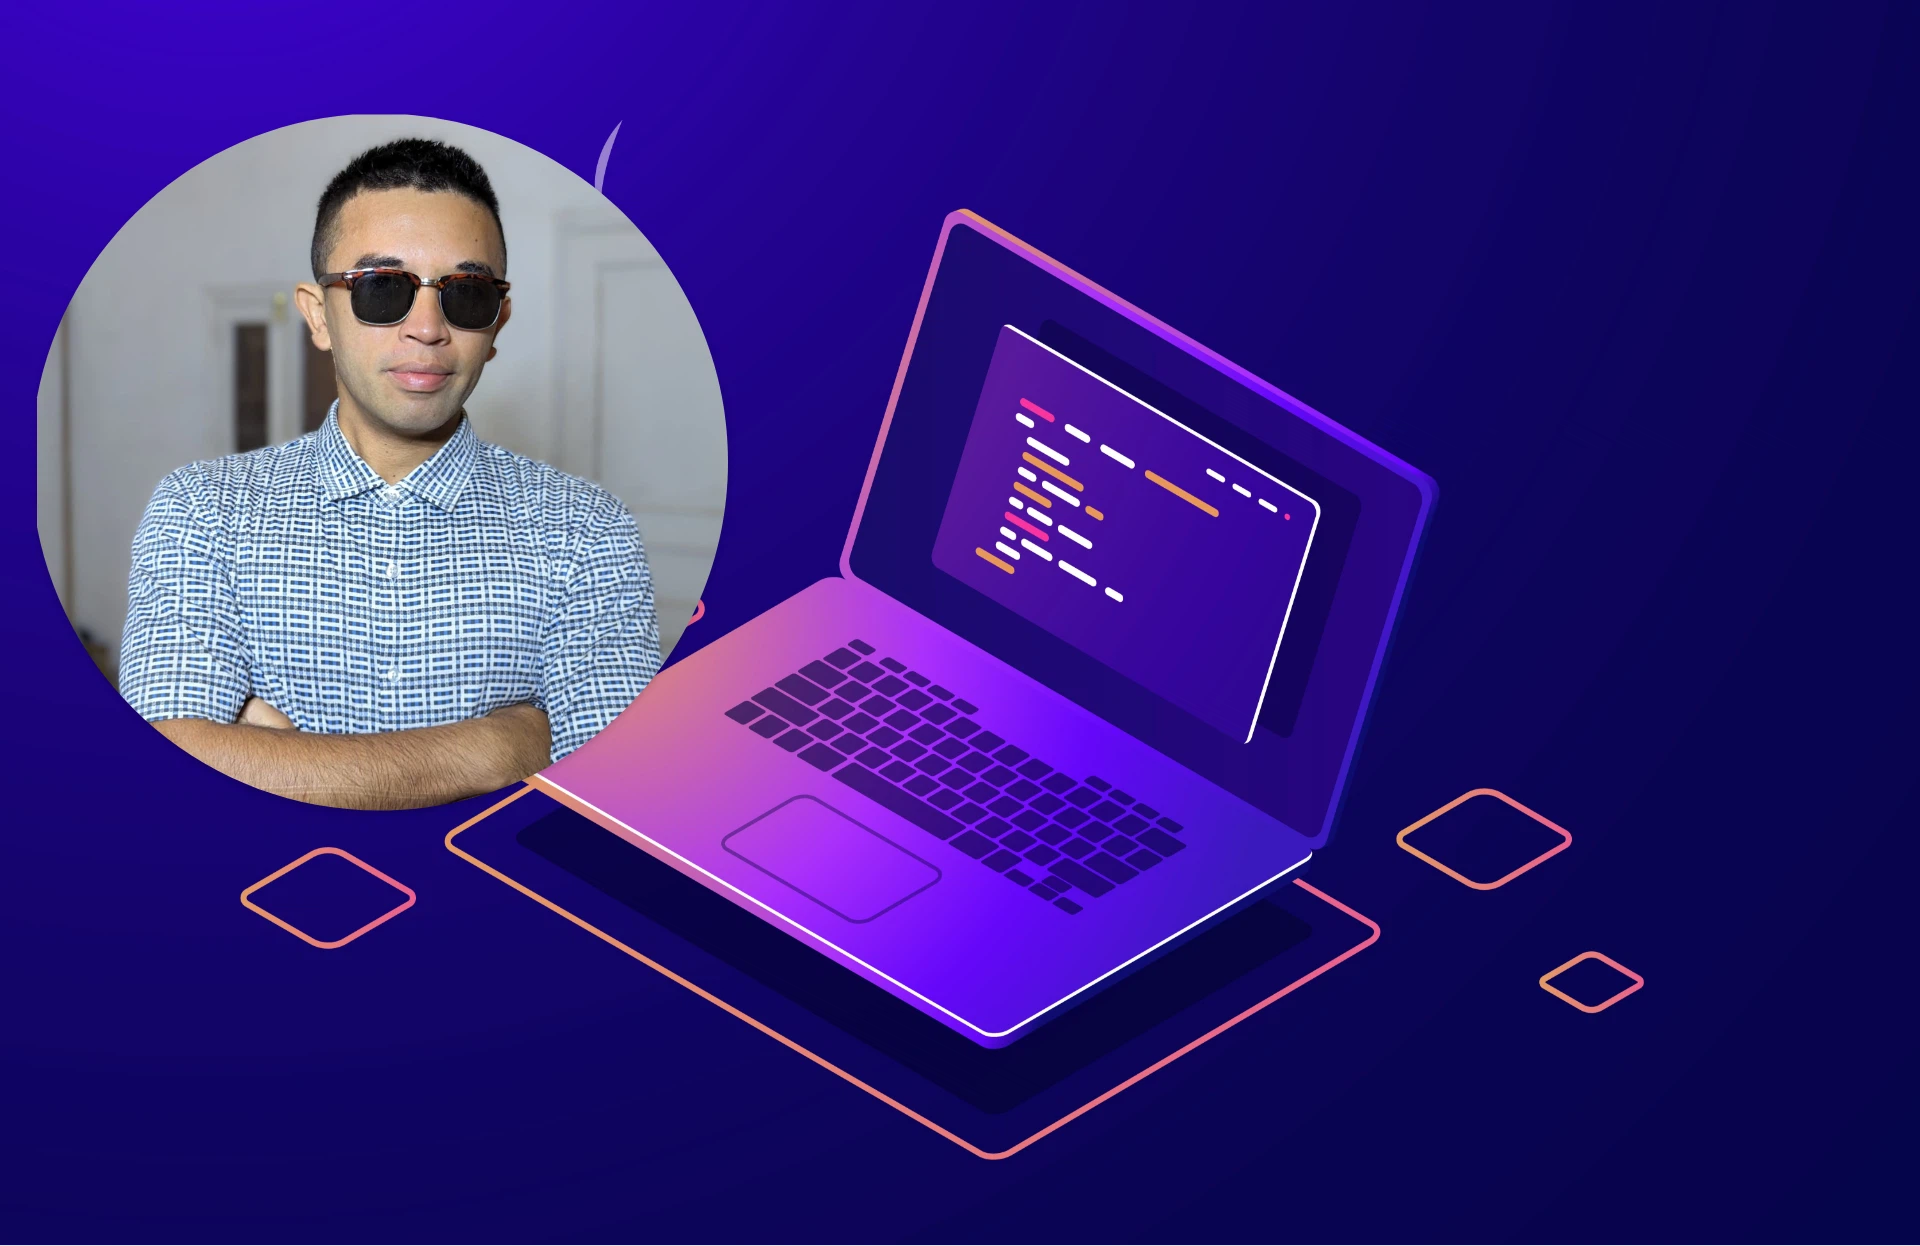
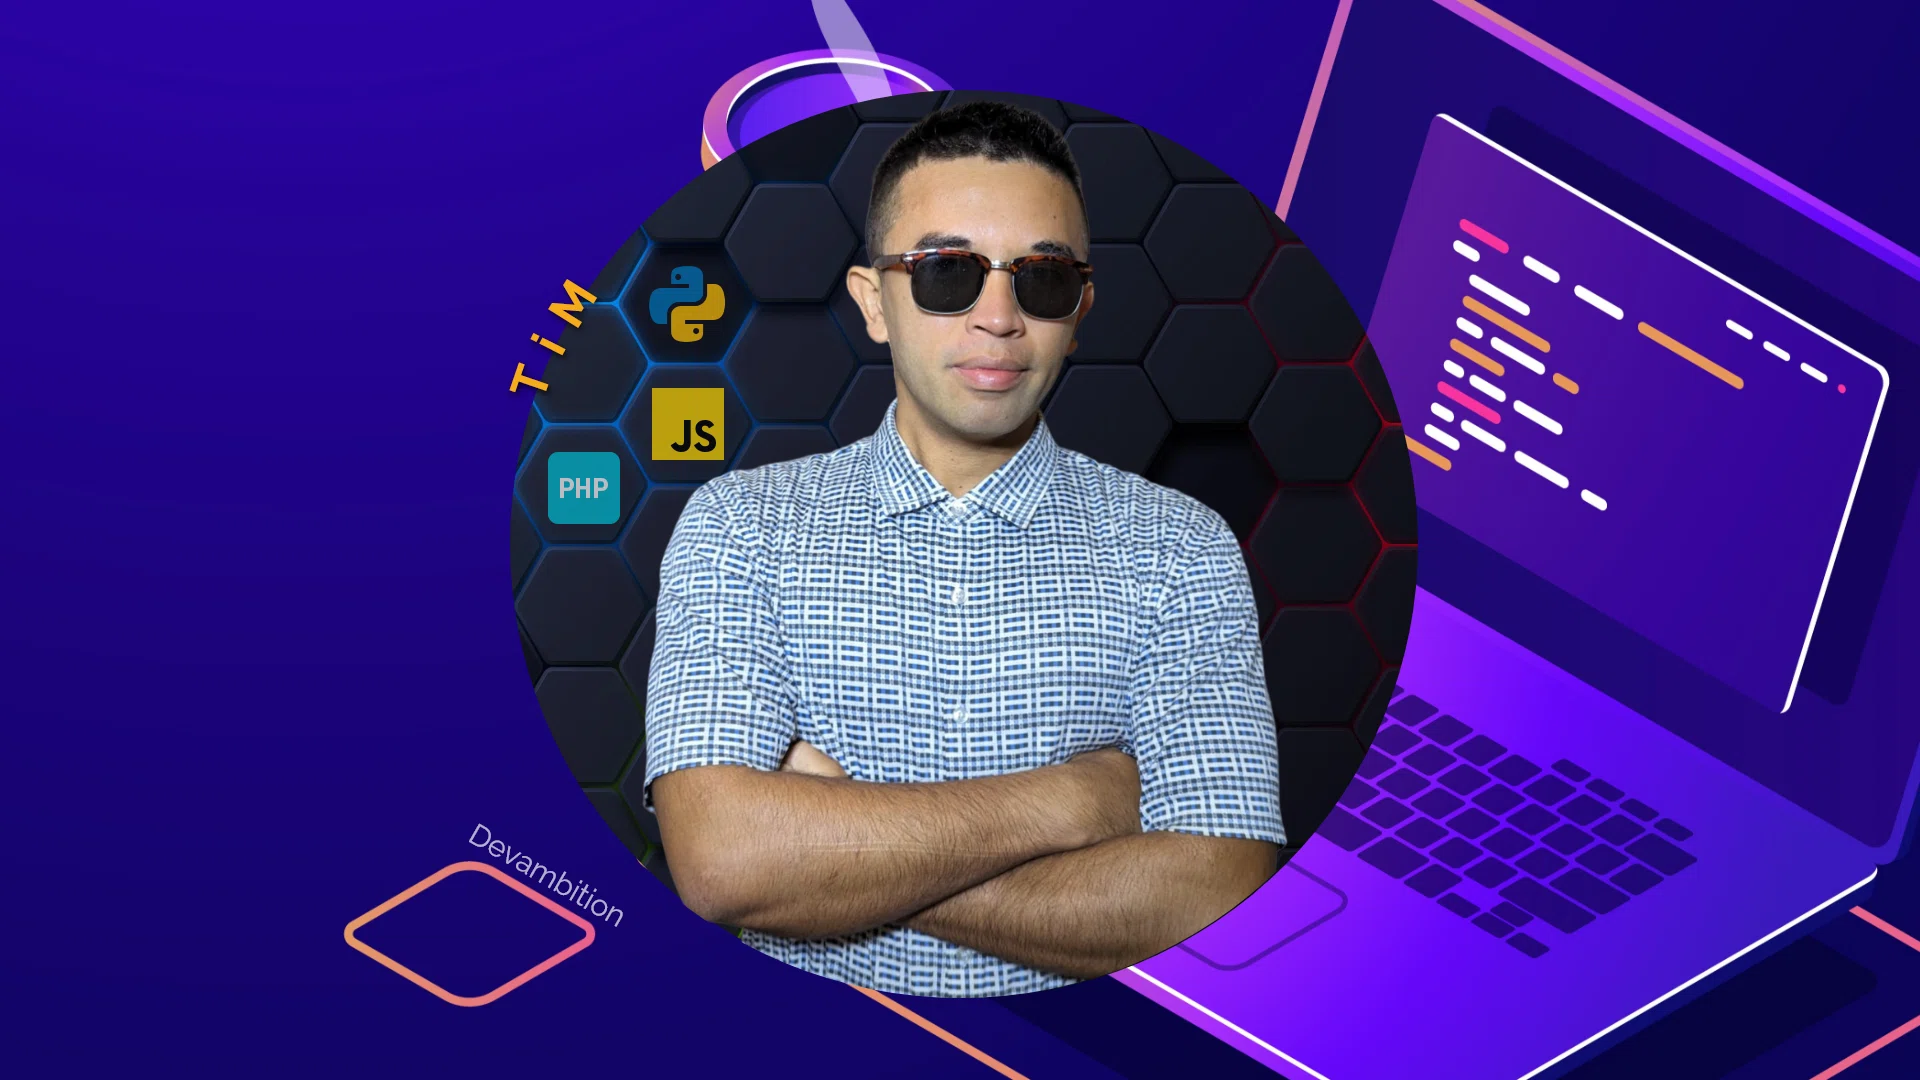
chore: Changed home's page header image.
- Changed home page header image.
- Fix bug in contact form : make lastname and phone optional.
- Highlight login page credentials to quickly see it.

diff --git a/resources/js/pages/Contact.vue b/resources/js/pages/Contact.vue
@@ -143,9 +143,9 @@ async function submit() {
     isSent.value = false;    
     const payload = {
         firstname: formStore.form.firstname,
-        lastname: formStore.form.lastname,
+        lastname: formStore.form.firstname,
         email: formStore.form.email,
-        phone: formStore.form.phone,
+        phone: null,
         msg: formStore.form.msg,
         city: null,
         zipcode: null,

diff --git a/app/Http/Controllers/ContactController.php b/app/Http/Controllers/ContactController.php
@@ -13,12 +13,12 @@ class ContactController extends Controller
     {
         $this->validations = [
             'firstname' => ['required', 'max:255', 'string'],
-            'lastname' => ['required', 'max:255', 'string'],
+            'lastname' => ['nullable', 'max:255', 'string'],
             'email' => ['required', 'email', 'max:255', 'string'],
-            'phone' => ['max:50', 'regex:/^(00261|^\+261|^0)+\s?(32|34|33|38)+\s?[0-9]{2}\s?[0-9]{3}\s?[0-9]{2}$/i'],
+            'phone' => ['nullable', 'max:50', 'regex:/^(00261|^\+261|^0)+\s?(32|34|33|38)+\s?[0-9]{2}\s?[0-9]{3}\s?[0-9]{2}$/i'],
             'zipcode' => '',
             'city' => '',
-            'msg' => ['max:1000', 'string']
+            'msg' => ['min:5', 'max:1000', 'string']
         ];
     }
 

diff --git a/resources/views/auth/login.blade.php b/resources/views/auth/login.blade.php
@@ -24,7 +24,7 @@
                         <form method="POST" action="{{ route('login') }}">
                             @csrf
                             <div class="mb-4">
-                                <span class="text-sm">Pas de compte ? Aucun problème, bienvenue en tant qu'invité : guest@gmail.com | Bi1venu€</span>
+                                <span class="text-md">Pas de compte ? Aucun problème, bienvenue en tant qu'invité : <span class="font-bold text-secondary">guest@gmail.com</span> | <span class="font-bold text-secondary">Bi1venu€</span></span>
                             </div>
                             <div class="form-group mb-2">
                                 <label class="mb-1" for="field-email">Email *</label>
